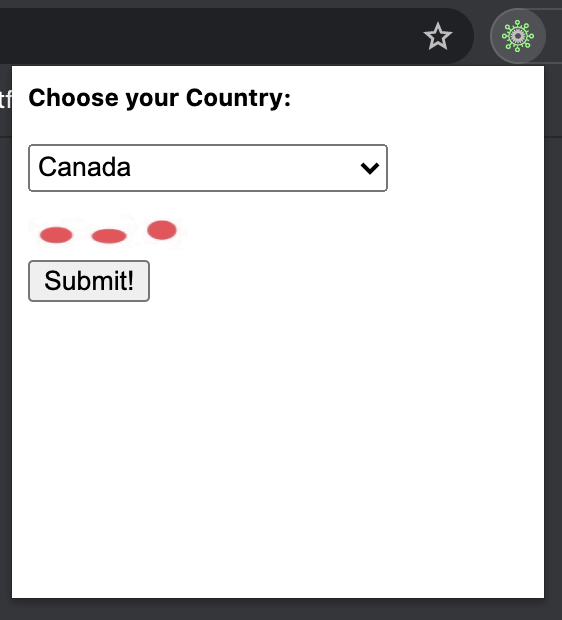
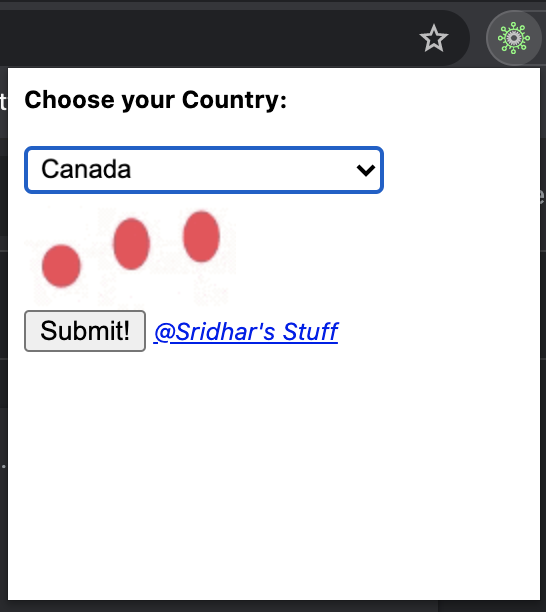
ImagesUpdated

Changed region(s): [[0.0, 0.0, 1.0, 1.0]]

diff --git a/pages/default.html b/pages/default.html
@@ -32,6 +32,8 @@
         <div id="buttonsDiv">
             <button id="submitButton" type="button">Submit!</button>
             <button id="updateButton" type="button">Update!</button>
+            <a href="https://github.com/mattasridhar/covidvizualizer" style='align-items: flex-end;'><i>@Sridhar's
+                    Stuff</i></a>
         </div>
         <div id="InfoDiv">
             <h4 id="infoText"></h4>
